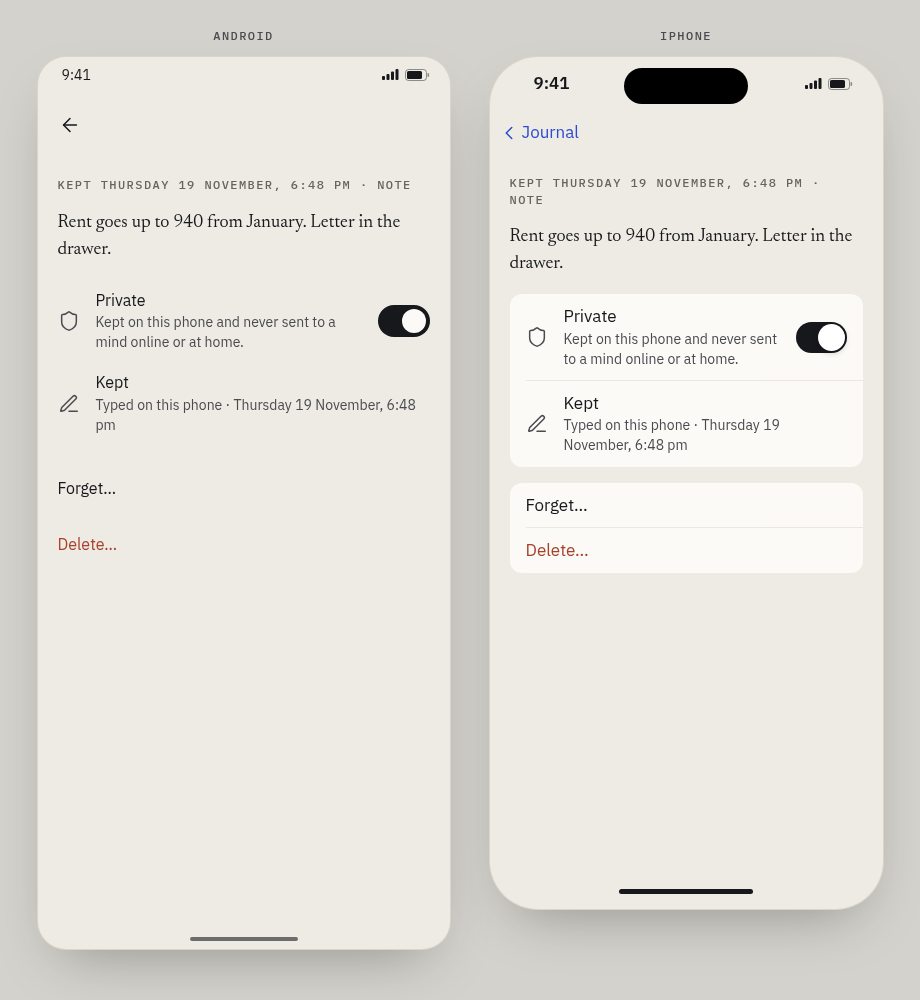
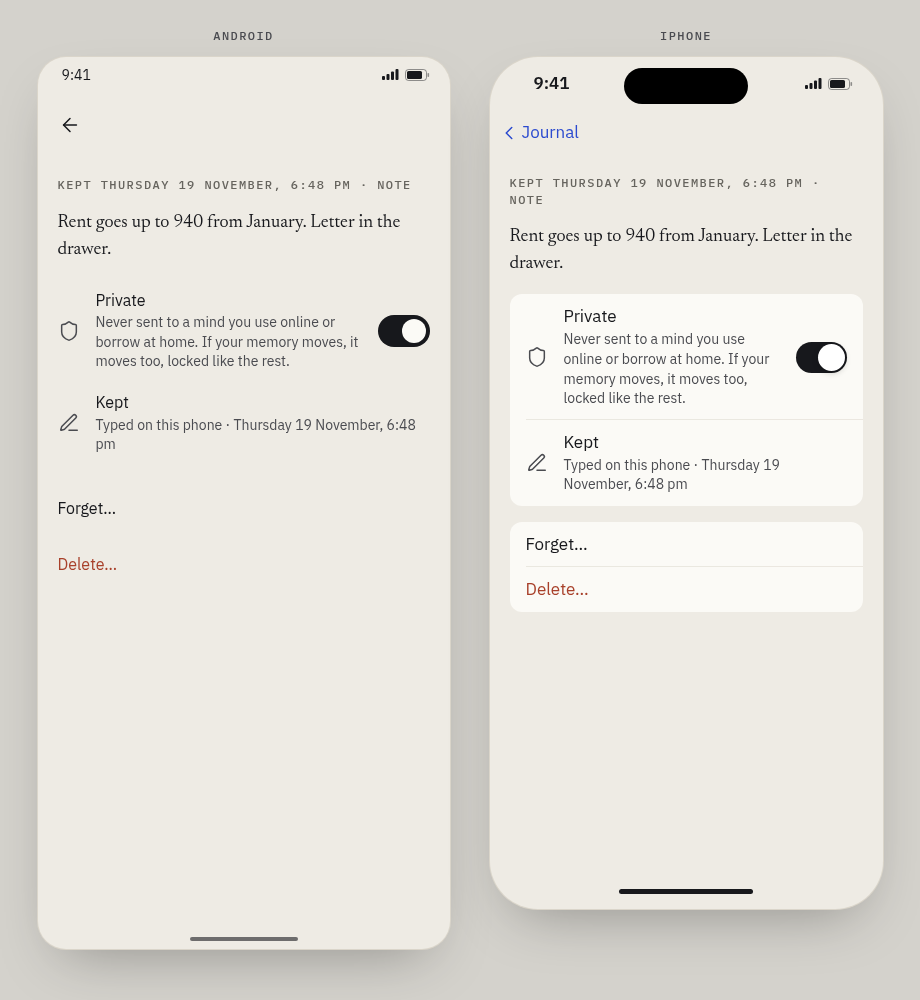
docs(design): settle the phone alone derived copy

diff --git a/docs/design/mockups/phone-parity/first-release.html b/docs/design/mockups/phone-parity/first-release.html
@@ -152,7 +152,7 @@
   <p class="quote" data-state="item" style="font-size: 1.125rem">Rent goes up to 940 from January. Letter in the drawer.</p>
   <div class="group" data-state="item">
     <div class="rows">
-      <div class="row"><span data-icon="shield" data-size="22"></span><span class="rowText"><span class="rowLabel">Private</span><span class="rowHint">Kept on this phone and never sent to a mind online or at home.</span></span><span class="sw"></span></div>
+      <div class="row"><span data-icon="shield" data-size="22"></span><span class="rowText"><span class="rowLabel">Private</span><span class="rowHint">Never sent to a mind you use online or borrow at home. If your memory moves, it moves too, locked like the rest.</span></span><span class="sw"></span></div>
       <div class="row"><span data-icon="pen" data-size="22"></span><span class="rowText"><span class="rowLabel">Kept</span><span class="rowHint">Typed on this phone · Thursday 19 November, 6:48 pm</span></span></div>
     </div>
   </div>

diff --git a/docs/design/phone-first.md b/docs/design/phone-first.md
@@ -100,7 +100,7 @@ The screens above, with these differences in the first release. Every other word
 | Ask | As written in [Ask with no mind](#7-ask-with-no-mind) |
 | This phone, Your memory | "Where it is", "Its mind" ("None yet"); no locked copy row |
 | This phone, This phone | "Version" / "Nocturne {version}". No "Name" row: a phone alone shows its name nowhere, and pairing asks for one if it is ever needed |
-| This phone, Help | "Privacy policy" (opens the policy page in the phone's browser) · "What this phone can do" |
+| This phone, Help | "Privacy policy" (opens the policy page in the phone's browser) · "What this phone can do" · "Your phone’s permissions" (the permissions help in the copy table, with "Open phone settings") |
 | This phone, actions | "Move my memory…", "Save a backup…", "Delete everything…". "Move my memory…" opens [Giving it a mind](#giving-it-a-mind-in-the-first-release), the one place a memory can move to in this release |
 | This phone, can do | "Your memory is on this phone. It can keep, find, forget and delete, and save a backup to a file." |
 
@@ -136,7 +136,7 @@ should Nocturne's mind be?](#where-should-nocturnes-mind-be) with this as its la
 | Welcome link | "I have a backup" |
 | Restore title | "Bring back your memory" |
 | Restore lead | "Choose your backup file and type its passphrase." |
-| Restore file card | The file's name, then "{size} · made {day}" when the date can be read before the passphrase, else "{size}" alone |
+| Restore file card | The file's name and "{size}". No date: the backup's own date is locked until the passphrase opens it, and the file's date on the phone changes when it is copied, so it would mislead. 0013's checks show the backup's date once it opens |
 | Restore button | "Choose the file" then "Bring it back" |
 | Restore done | "Your memory is back on this phone." / "{count} things, every page and your journal." / "Continue" |
 
@@ -152,8 +152,22 @@ choice, worded for the phone:
 | Already put aside | "Something is already put aside from {day}. It stays, and this is put aside as well." (0013) |
 | Buttons | "Keep what’s here" · "Replace with the backup"; neither is the default |
 
-What was put aside shows in This phone under Your memory as "Put aside {day}…", opening 0013's
-"Bring back what was put aside" and "Delete what was put aside", worded for this phone. When the locked copy
+What was put aside shows in This phone under Your memory as "Put aside {day}…". When two were put
+aside on the same day, each label adds its time: "Put aside {day}, {time}…".
+
+| Screen | Part | Copy |
+|---|---|---|
+| Put aside | Title | "Put aside {day}" (or "Put aside {day}, {time}") |
+| | Lead | "What was on this phone before a backup was brought back. {size}." |
+| | Rows | "Bring it back…" · "Delete it…" (careful) |
+| | Can't be opened | "Nocturne couldn’t open this, so it can’t be brought back." Only "Delete it…" shows |
+| Bring it back | Title | "Bring back what was put aside {day}?" |
+| | Body | "What’s on this phone now is put aside instead, so you can still change your mind." |
+| | Buttons | "Bring it back" · "Cancel" |
+| Delete it | Title | "Delete what was put aside {day}?" |
+| | Body | "{things} things kept, {entries} journal entries and {media} photos and recordings from before {day}. This can’t be undone." (plural forms as usual) |
+| | Can't be opened | "What was put aside {day} couldn’t be opened. Deleting it can’t be undone." |
+| | Buttons | "Delete" (careful) · "Keep it" | When the locked copy
 ships, "I have a backup" offers both: "A locked copy online" and "A backup file".
 
 ### Behaviour
@@ -204,9 +218,10 @@ thing (its words, photo, recording or document), when and how it was kept, and i
 
 | Part | Copy |
 |---|---|
-| Private | Switch "Private" / hint "Kept on this phone and never sent to a mind online or at home." |
+| Kept | "Kept" / "{how} · {day}, {time}", where {how} is "Typed on this phone", "Taken on this phone", "Chosen from your photos", "Recorded on this phone", "Shared from another app", "From your calendar" or "From Health". A thing restored from a backup or moved from a computer keeps its first {how}, or "Kept on {device}" when it was kept elsewhere |
+| Private | Switch "Private" / hint "Never sent to a mind you use online or borrow at home. If your memory moves, it moves too, locked like the rest." |
 | Journal entries and good things | No private switch, by the journal's rule: "Journal entries can’t be marked private." (0015) |
-| Actions | "Forget…" · "Delete…", with the computer's confirmations worded for this phone |
+| Actions | "Delete…", with the computer's confirmation worded for this phone ("This will be deleted from this phone for good, along with anything Nocturne worked out from it."). "Forget…" shows only when Nocturne has worked something out from this thing, which on a phone alone happens only for a memory restored from a backup or moved from a computer; otherwise there is nothing to forget, and the row would always say "There is nothing left to delete here." |
 
 **Activity.** The computer's activity list records what left it and what came in. A phone alone sends
 nothing, so it has no activity list; the Sent online list arrives with the online mind, and
@@ -253,6 +268,7 @@ the line has no meaning when the phone is the home. Keys are the companion's.
 | Health rationale | `phone.rationale.where` | "Readings go only to the computer you paired…" | "Readings stay on this phone, in Nocturne’s memory, and in any backup you save. Nobody else receives them, including the people who make Nocturne. Nocturne has no account, no ads and no analytics." |
 | Health rationale | `phone.rationale.keeping` | "Your computer keeps readings until you delete them there." | "Nocturne keeps readings on this phone until you delete them." |
 | Health rationale | `phone.rationale.stopping` | "…To delete what went across, use {fromYourPhones} on your computer." | "Turn Health off in Nocturne’s {thisPhone}, or take the permission back in Health Connect. To delete readings already kept, use {deleteReadings} in {thisPhone}." |
+| Calendar and Health screens, delete | (new) | | The delete screens in the copy table: "Delete what Nocturne kept from your calendar?" or "Delete the health readings Nocturne kept?", with an "Also stop…" tick, on by default as on the computer, and the line that the phone's own calendar or Health isn't touched |
 | Calendar and Health screens | `phone.sources.already` | "What already went across stays on your computer. To delete it, use {fromYourPhones} there." | "What Nocturne already kept stays until you delete it." with "Delete what was kept…", opening the computer's From your phones delete preview worded for this phone |
 | Calendar screen | `phone.calendar.stoppedOnComputer.*` | "Your computer isn’t taking your calendar from this phone." | Not shown |
 
@@ -295,11 +311,11 @@ settings" with "Open phone settings". The voice note itself is always kept first
 
 | State | What shows |
 |---|---|
-| The phone is nearly full | A banner on Today and on Keep, and a line under "Where it is" in This phone: "This phone is nearly full. Free some room so Nocturne can keep more." Shown when less than 500 MB is free, gone when there is more |
+| The phone is nearly full | A banner on Today and on Keep, and a line under "Where it is" in This phone: title "This phone is nearly full." and body "Free some room so Nocturne can keep more." Shown when less than 500 MB is free, gone when there is more |
 | A keep that doesn't fit | On the Keep sheet, instead of "Kept.": "There wasn’t room to keep this. Free some room and try again." with "Try again". Nothing is half-kept |
 | Start can't make the memory | On "Your memory lives on this phone", under the button: "Nocturne couldn’t make your memory on this phone. Free some room, then try again." with "Try again". Nothing is made until it works |
 | The memory can’t be opened (damaged) | "Nocturne couldn’t open your memory on this phone." / "Nothing was deleted. Bring back a backup, or ask for help." with "I have a backup" and "Get help". "Get help" opens the help page for this case on Nocturne's site in the phone's browser; nothing is sent with it. The damaged store is put aside, never deleted |
-| After Delete everything | Decided by the owner: the app goes back to Welcome as on a new phone, with one line above the buttons: "Everything was deleted from this phone." The phone's own permissions for the calendar, Health and the microphone stay as the person set them; This phone's help says how to take them back in the phone's settings |
+| After Delete everything | Decided by the owner: the app goes back to Welcome as on a new phone, with one line above the buttons: "Everything was deleted from this phone.", and under it "Your phone still lets Nocturne read your calendar and Health until you take that back." with "How to take that back", which opens the permissions help below. The phone's own permissions stay as the person set them |
 | Calendar or health off in the phone's settings | As approved, worded "stays on this phone" |
 | A backup from a newer Nocturne | 0013's words |
 
@@ -796,7 +812,9 @@ New strings only. Strings from Online answers, backup and the phone apps are mar
 | This phone, can do, alone | "Your memory is on this phone. It can keep, find, forget and delete. It can save a backup to a file." |
 | This phone, actions | "Move my memory…" / "Save a backup…" / "Delete everything…" |
 | Delete everything, phone | "Delete everything on this phone?" / "Everything you kept, your journal, check-ins, calendar and health readings in Nocturne go from this phone for good. Your calendar and Health themselves aren’t touched. A backup you saved elsewhere isn’t touched." / "Type “delete everything” to go ahead" / "Delete everything" / "Keep everything" |
-| Item, private | "Private" / "Kept on this phone and never sent to a mind online or at home." / "Journal entries can’t be marked private." |
+| Item, kept | "Kept" / "{how} · {day}, {time}" / "Typed on this phone" / "Taken on this phone" / "Chosen from your photos" / "Recorded on this phone" / "Shared from another app" / "From your calendar" / "From Health" / "Kept on {device}" |
+| Item, private | "Private" / "Never sent to a mind you use online or borrow at home. If your memory moves, it moves too, locked like the rest." / "Journal entries can’t be marked private." |
+| Item, delete | "This will be deleted from this phone for good, along with anything Nocturne worked out from it." / "These will be deleted from this phone for good, along with anything Nocturne worked out from them." |
 | Copy, step 1 | "A locked copy online · step 1 of 2" / "Keep a locked copy of your memory online, so a lost phone doesn’t lose it." |
 | Copy, what goes | "Everything you kept, in one locked copy, made again every day. Photos and recordings go once each." |
 | Copy, who opens | "Only someone with your passphrase. {company} stores it but can’t open it, and neither can Nocturne’s makers." |
@@ -866,7 +884,15 @@ New strings only. Strings from Online answers, backup and the phone apps are mar
 | First release, can do | "Your memory is on this phone. It can keep, find, forget and delete, and save a backup to a file." |
 | Removing the app | "Removing the app removes your memory from this phone. Save a backup first." |
 | Replace on this phone | "Replace what’s on this phone?" / "Restoring puts what’s on this phone now aside, then brings in the backup. Nothing is deleted. You can bring back what was here from {thisPhone}." / "In the backup · Comes in" / "On this phone now · Put aside, not deleted" / "Things kept {count}" / "Journal entries {count}" / "Photos and recordings {count}" / "Keep what’s here" / "Replace with the backup" |
-| Put aside row | "Put aside {day}…" |
+| Put aside row | "Put aside {day}…" / "Put aside {day}, {time}…" |
+| Put aside | "Put aside {day}" / "What was on this phone before a backup was brought back. {size}." / "Bring it back…" / "Delete it…" / "Nocturne couldn’t open this, so it can’t be brought back." |
+| Bring it back | "Bring back what was put aside {day}?" / "What’s on this phone now is put aside instead, so you can still change your mind." / "Bring it back" / "Cancel" |
+| Delete put aside | "Delete what was put aside {day}?" / "{things} things kept, {entries} journal entries and {media} photos and recordings from before {day}. This can’t be undone." / "What was put aside {day} couldn’t be opened. Deleting it can’t be undone." / "Delete" / "Keep it" |
+| Delete what was kept, calendar | "Delete what Nocturne kept from your calendar?" / "It goes from this phone for good." / "{count} appointments from your calendar, and their earlier versions" / "Also stop showing your calendar in Nocturne" / "If you leave this off, the next two weeks come back the next time Nocturne opens." / "Your phone’s calendar isn’t touched, and nor is a backup you saved." / "Delete" / "Keep them" |
+| Delete what was kept, Health | "Delete the health readings Nocturne kept?" / "They go from this phone for good." / "{count} health readings" / "Also stop bringing health readings into Nocturne" / "If you leave this off, new readings keep coming in. The ones you delete aren’t brought in again." / "Health on your phone isn’t touched, and nor is a backup you saved." / "Delete" / "Keep them" |
+| Phone full banner | "This phone is nearly full." / "Free some room so Nocturne can keep more." |
+| Permissions help | "Your phone’s permissions" / Android: "Nocturne reads your calendar and Health, and uses the microphone, only while your phone allows it. To take that back: your calendar and the microphone in Settings, then Apps, then Nocturne, then Permissions; Health in Health Connect, then App permissions, then Nocturne." / iPhone: "Nocturne reads your calendar and Health, and uses the microphone and speech recognition, only while your iPhone allows it. To take that back: your calendar, the microphone and speech recognition in Settings, then Nocturne; Health in the Health app, then Sharing, then Apps, then Nocturne." / "Open phone settings" |
+| Deleted, Welcome link | "Your phone still lets Nocturne read your calendar and Health until you take that back." / "How to take that back" |
 | Keep, no room | "There wasn’t room to keep this. Free some room and try again." / "Try again" |
 | Start failed | "Nocturne couldn’t make your memory on this phone. Free some room, then try again." / "Try again" |
 | After Delete everything (pending) | "Everything was deleted from this phone." |

diff --git a/docs/logs/2026-11/22-settled-the-phone-alone-derived-copy.md b/docs/logs/2026-11/22-settled-the-phone-alone-derived-copy.md
@@ -1,0 +1,16 @@
+---
+type: Log Entry
+title: "Settled the copy the phone alone build derived."
+description: "Nocturne on a phone of its own now holds the final words for deleting what the calendar and Health brought, what was put aside, bringing it back, an item's Kept row and private mark, a full phone and the phone's permissions, and drops the restore card's date and the empty Forget row."
+tags: [log, update]
+kind: Changed
+status: stable
+---
+
+[Nocturne on a phone of its own](/design/phone-first.md) settles the strings the build had to
+derive. Deleting what the calendar or Health brought keeps the computer's "Also stop" tick, on by
+default. A put aside memory has its own page, and two from one day show their times. The restore
+card shows no date, since the only date readable before the passphrase is the file's own. An item
+shows how it was kept, and "Forget…" shows only when Nocturne worked something out from it. The
+private mark says it moves with the memory. This phone's help says how to take back the phone's
+permissions, and Welcome points to it after Delete everything.
